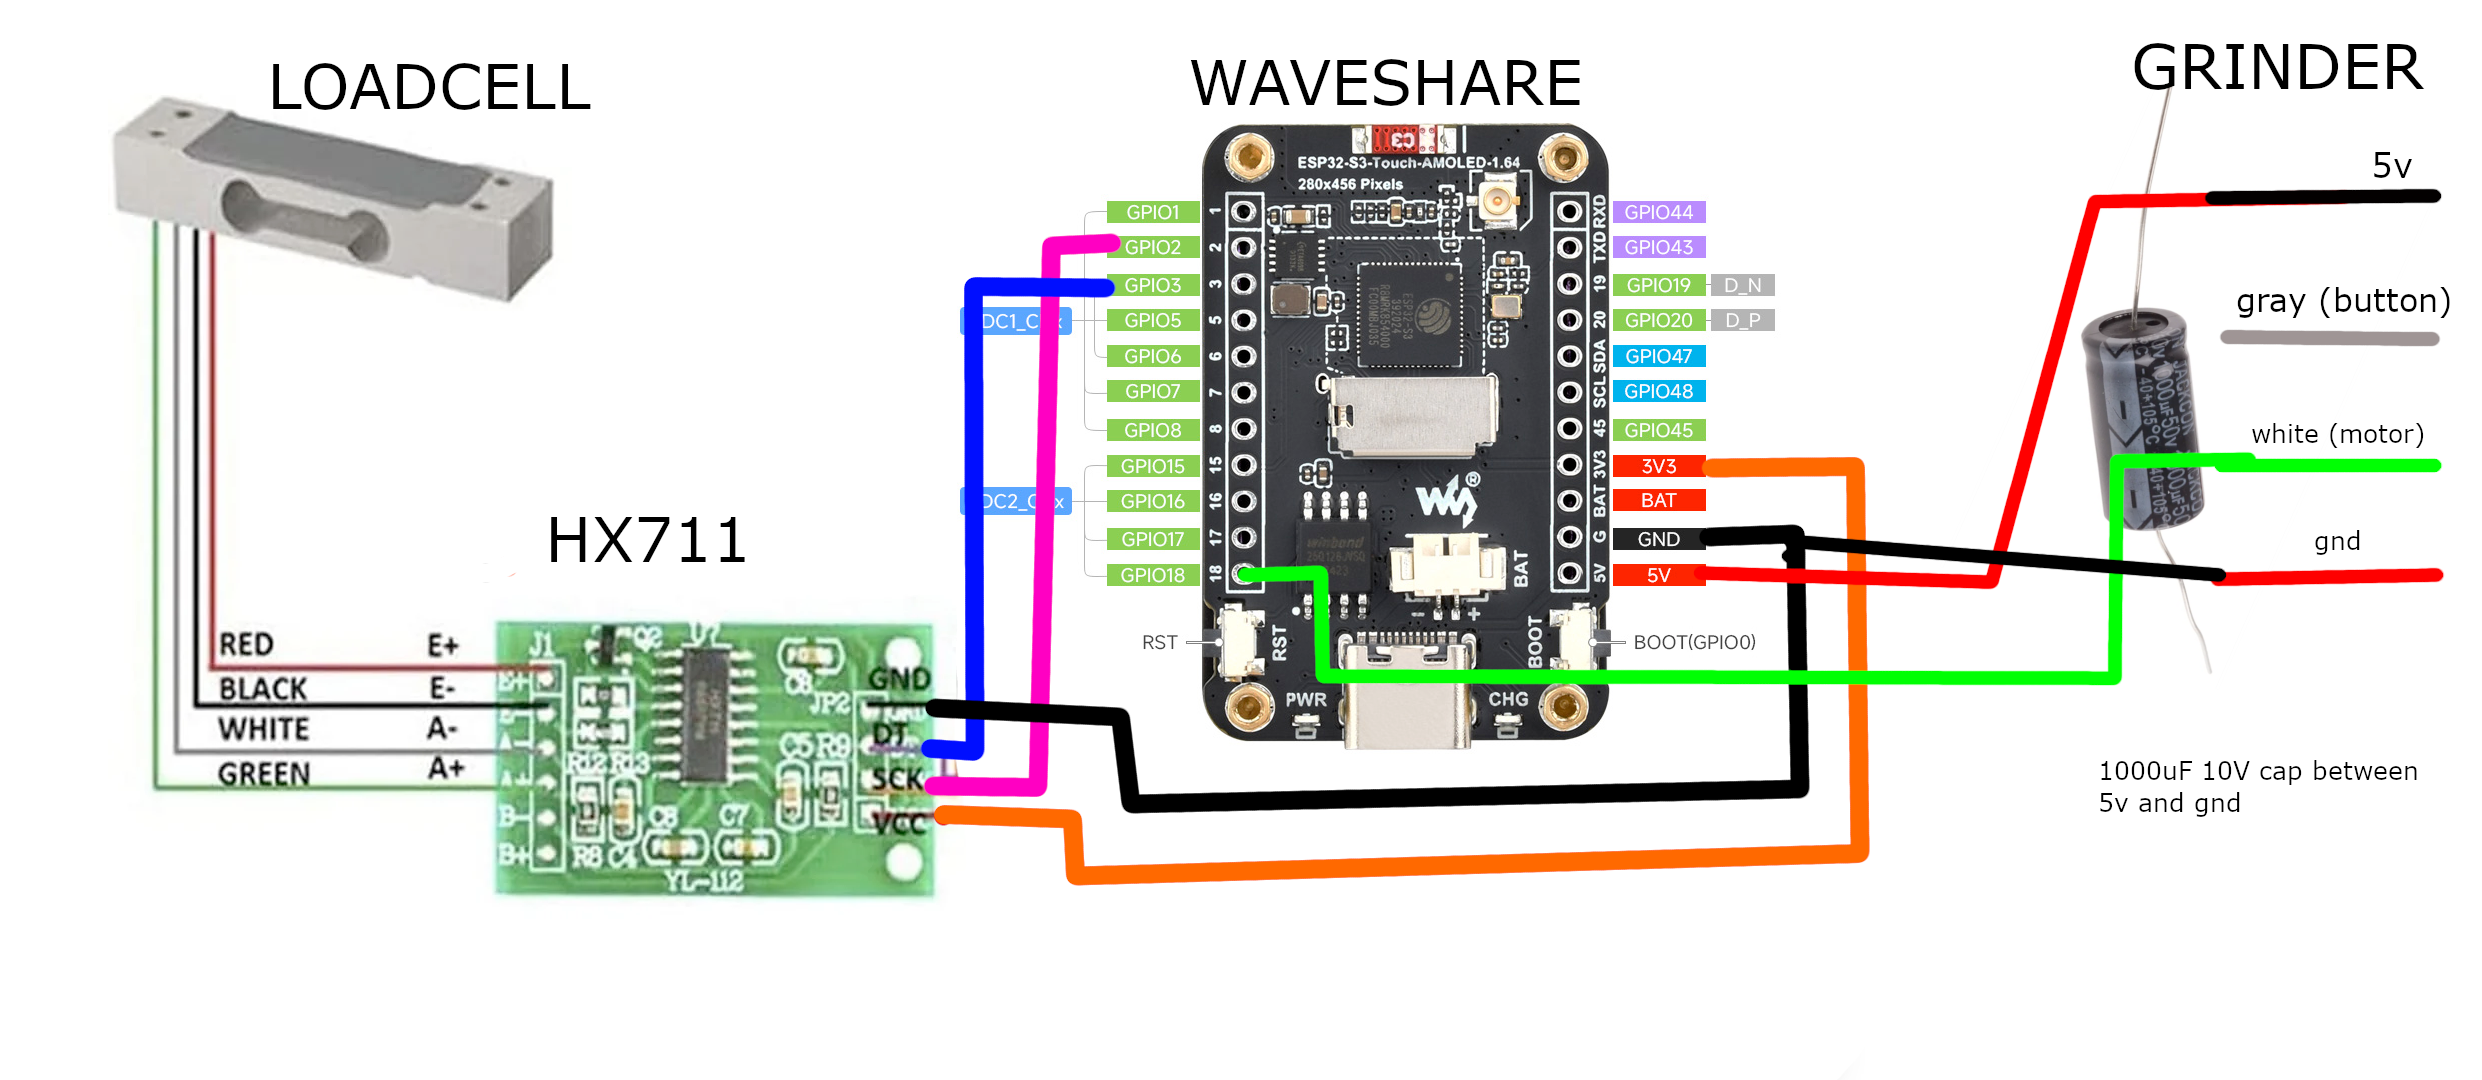
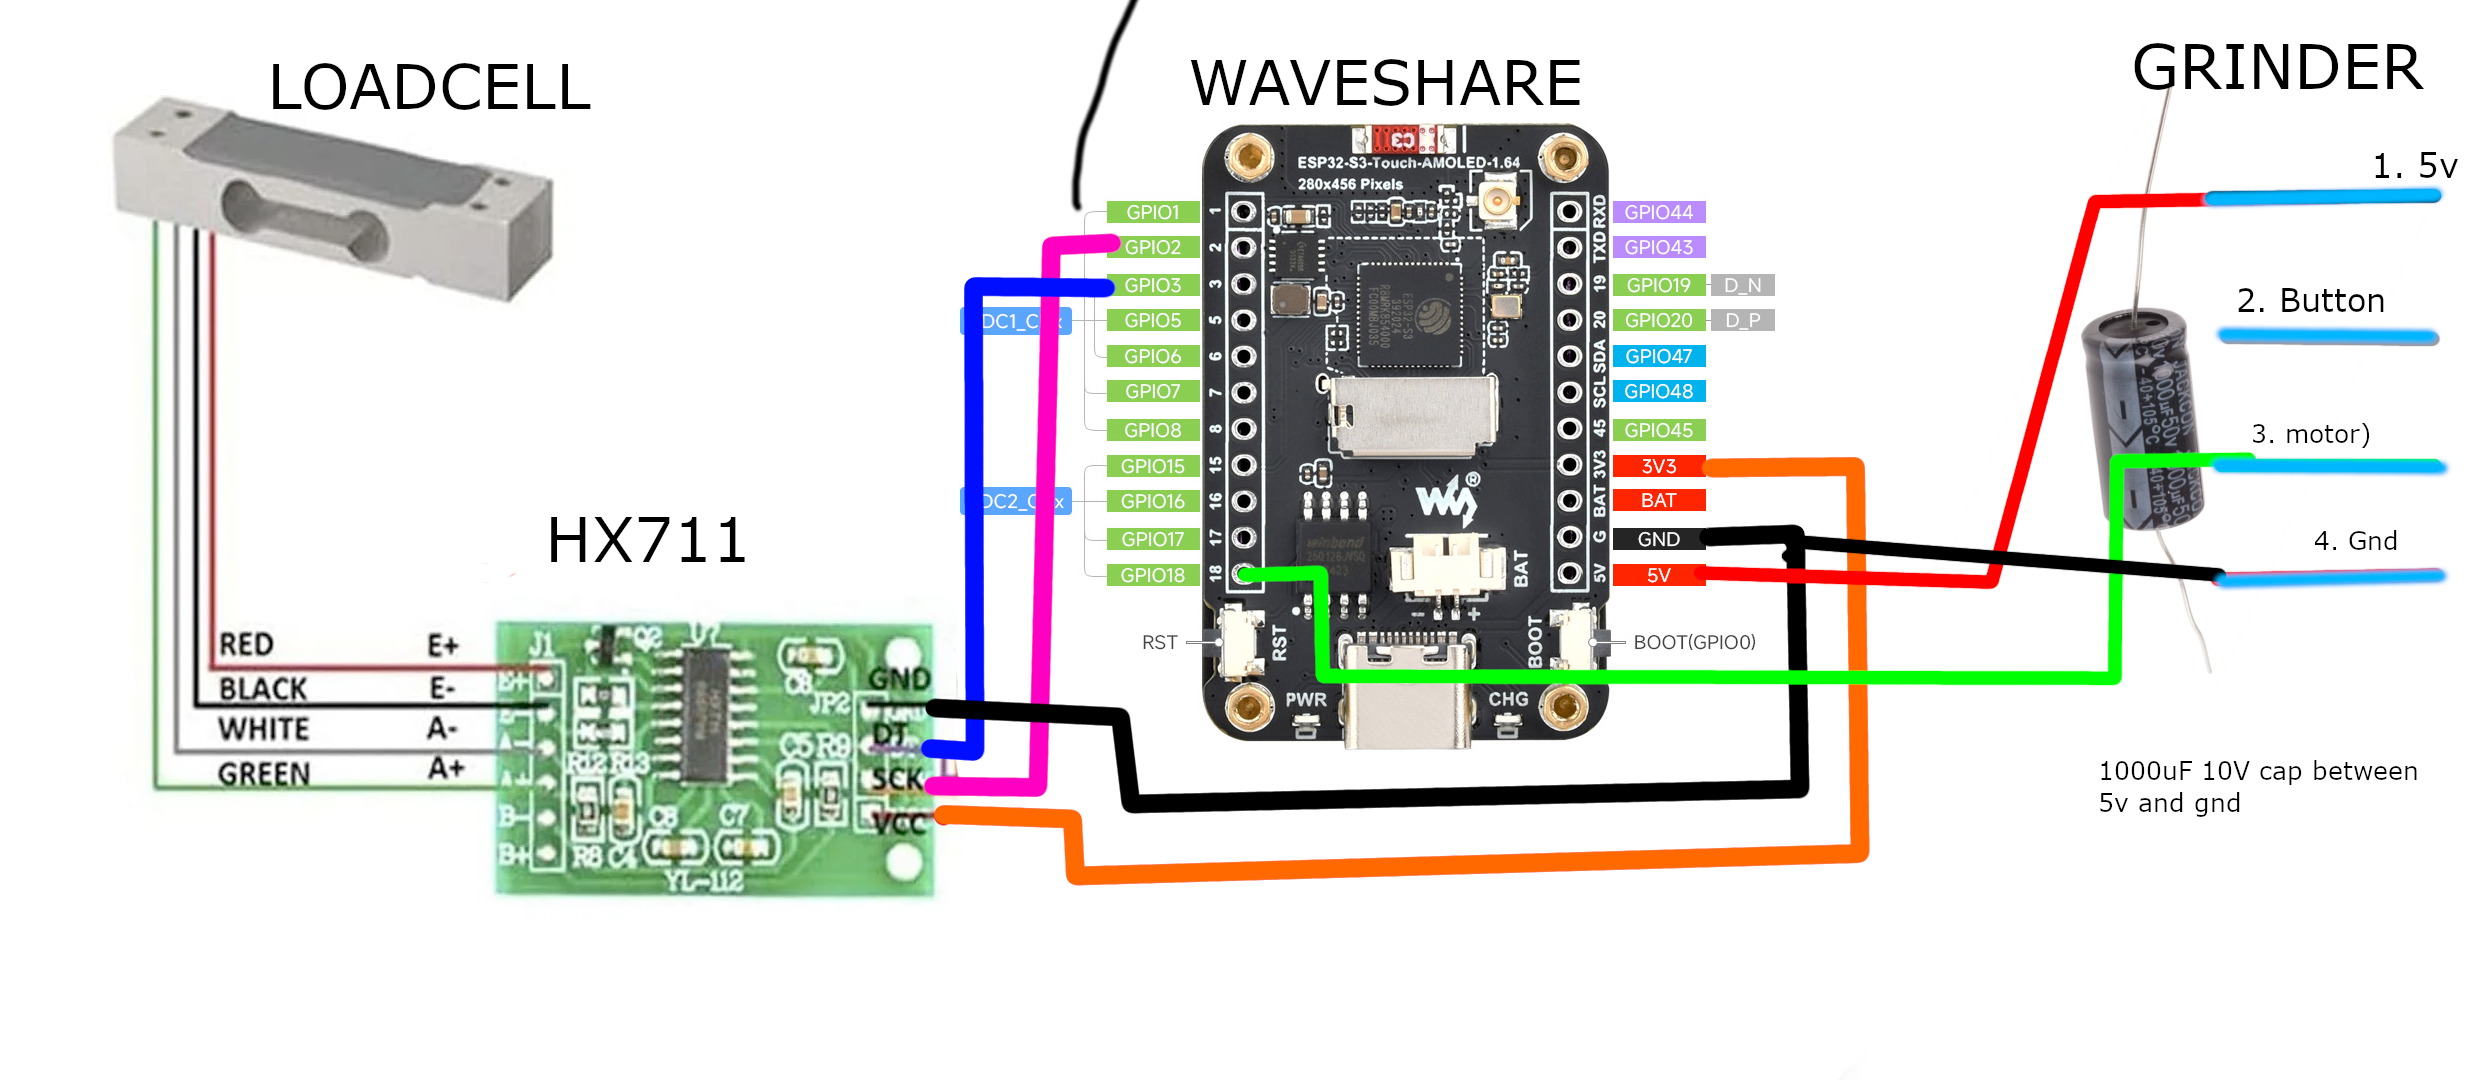
docs: Replace wire colors with numbered pin system and add troubleshooting links
- Replace Eureka wire color references with numbered pin system (1-4)
- Add 4-pin Eureka plug pinout image with numbered pins
- Rename image files to use underscores instead of spaces
- Update all markdown links to use new image filenames
- Add strong warnings about verifying wiring independently
- Add troubleshooting links to README.md and DOC.md
- Emphasize that wire colors are unreliable and vary between units

🤖 Generated with [Claude Code](https://claude.ai/code)

diff --git a/DOC.md b/DOC.md
@@ -17,6 +17,7 @@ Complete build instructions, parts list, and usage guide for the Smart Grind-by-
 - [Analytics & Data Export](#-analytics--data-export)
 - [Algorithm Details](#-algorithm-details)
 - [Frequently Asked Questions](#-frequently-asked-questions)
+- [Troubleshooting](#-troubleshooting)
 
 ---
 
@@ -36,7 +37,7 @@ Complete build instructions, parts list, and usage guide for the Smart Grind-by-
 - **Angled pin headers** (not the straight kind)
 - **JST-PH 4 pin male connector** (optional - if you don't want to solder to Eureka)
 
-[<img src="images/waveshare%20board%20wired%20up%201.jpg" alt="Wired Waveshare Board" width="30%">](images/waveshare%20board%20wired%20up%201.jpg)
+[<img src="images/waveshare_board_wired_up_1.jpg" alt="Wired Waveshare Board" width="30%">](images/waveshare_board_wired_up_1.jpg)
 
 ### 3D Printed Parts
 
@@ -77,20 +78,27 @@ ESP32-S3 GND       →    HX711 GND
 ```
 
 **Eureka Mignon Connections:**
+
+⚠ **CRITICAL WARNING:** Always verify your specific Eureka's wiring independently! Wire colors vary between units and cannot be trusted. Use the numbered pin positions shown in the reference image.
+
+Using the 4-pin Eureka plug pinout (see `images/4-pin_Eureka_plug_pinout.png`), counting from left to right with the plug oriented with 'ribs' towards you:
+
+[<img src="images/4-pin_Eureka_plug_pinout.png" alt="4-Pin Eureka Plug Pinout" width="50%">](images/4-pin_Eureka_plug_pinout.png)
+
 ```
-ESP32-S3 GPIO 18   →    WHITE wire (Motor control signal)
-ESP32-S3 GND       →    RED wire (⚠ Ground - non-standard color!)
-ESP32-S3 5V        →    BLACK wire (⚠ Power - non-standard color!)
-                        GRAY wire (Button signal - not used)
+ESP32-S3 5V        →    Pin 1 (5V power)
+                        Pin 2 (Button signal - not used in this project)
+ESP32-S3 GPIO 18   →    Pin 3 (Motor control signal)
+ESP32-S3 GND       →    Pin 4 (Ground)
 ```
 
-**Eureka 4-Pin Connector Reference:**
-- RED wire = GND (⚠ non-standard!)
-- WHITE wire = Motor control signal  
-- GRAY wire = Button signal (unused in this project)
-- BLACK wire = 5V power (⚠ non-standard!)
+**4-Pin Eureka Plug Reference (Left to Right):**
+- **Pin 1**: 5V power supply
+- **Pin 2**: Button signal (unused in this project)  
+- **Pin 3**: Motor control signal
+- **Pin 4**: Ground
 
-⚠ **CRITICAL:** Eureka uses reversed wire colors - RED is ground, BLACK is power!
+⚠ **VERIFICATION REQUIRED:** Before connecting, use a multimeter to verify your specific grinder's pin functions. Wire colors are unreliable and vary between units!
 
 ### Installation Steps
 
@@ -104,7 +112,7 @@ ESP32-S3 5V        →    BLACK wire (⚠ Power - non-standard color!)
    - Disassemble top plate and front plate
    - Remove the button and store it (not needed)
    - Use JST-PH plug to connect to Waveshare board
-   - **WARNING:** In some Eureka units, wire colors to screen are REVERSED! Test first.
+   - **WARNING:** Wire colors vary significantly between Eureka units - always verify pin functions with a multimeter before connecting!
    - Mount Waveshare screen using 3D printed adapter where original screen was
    - Fish HX711 wire through housing, exit via button hole
    - Mount load cell and HX711 to 3D printed back plate
@@ -323,6 +331,17 @@ Yes, but you'll need to make modifications. Use a 1kg load cell instead of 0.3kg
 **What is the benefit of this mod for a single-dosing grinder like the Niche Zero?**
 
 It's about workflow optimization vs. ultimate precision. Benefits: easier workflow with no manual measuring, precise dose accounting for retention, consistent results. Downside: potential stale retention from previous grinds. Choose based on your goals - do you want optimized ease and consistency, or are you willing to accept daily complexity for that perfect shot? This mod strikes a balance toward maintainable workflow efficiency.
+
+---
+
+## 🔧 Troubleshooting
+
+For common build and setup issues, see **[TROUBLESHOOTING.md](TROUBLESHOOTING.md)** which covers:
+
+- Unknown board ID errors in PlatformIO
+- Project initialization issues with pioarduino platform
+- Platform package cache problems
+- Clean build procedures
 
 ---
 

diff --git a/README.md b/README.md
@@ -91,3 +91,5 @@ In this project, that's most obvious when looking at the UI and state management
 **Project Status**: This project is shared 'as-is' and I have limited availability for support. While I'm happy to share what I've built, please understand that troubleshooting and feature requests may receive limited attention.
 
 **Want to dive deeper?** → Check out **[DOC.md](DOC.md)** for comprehensive documentation.
+
+**Having issues?** → See **[TROUBLESHOOTING.md](TROUBLESHOOTING.md)** for common problems and solutions.
